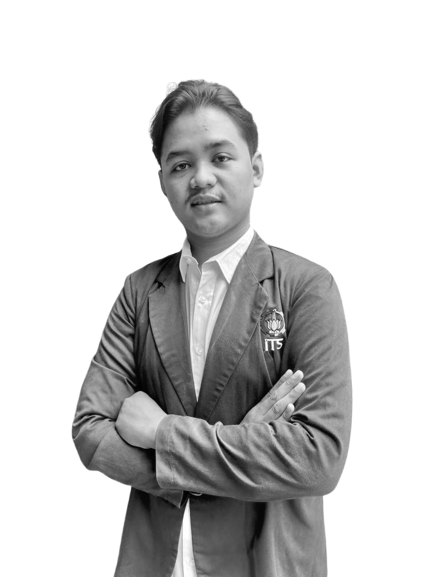
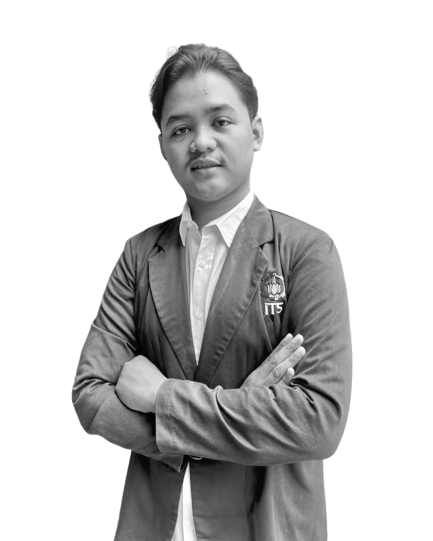
update foto kemenkoan

Changed region(s): [[0.1501, 0.0591, 0.8106, 0.9464]]

diff --git a/app/views/template/aspirasikmits.php b/app/views/template/aspirasikmits.php
@@ -3,7 +3,8 @@
   
         <div class="container col-lg-5 col-sm-12 pt-5">
             <h2 class="fw-bold text-start">Sampaikan Aspirasimu!</h2>
-            <p class="text-justify">Ut eu, sit aliquam mi tellus ac. Porttitor nunc mauris id elementum molestie blandit faucibus ac. Facilisis tortor, tristique senectus volutpat fermentum sem et pharetra enim. Amet lorem porta viverra odio malesuada fermentum consequat. Ornare hendrerit quisque arcu, venenatis magnis sed congue. Tempor tincidunt tortor id cursus sagittis laoreet orci dolor. Tempor pharetra lorem vivamus id faucibus quam. Morbi pellentesque at libero, augue sed netus sit. Vitae pretium mi bibendum aenean orci, pretium tellus elementum. Nec mattis neque adipiscing vel turpis euismod senectus
+            <p class="text-justify">Perjuangan aspirasi mahasiswa bukan sekedar proses penderitaan demi sebuah tujuan, apalagi menuai pujian. Akan tetapi, adalah suatu proses untuk memantaskan diri demi meraih tujuan mulia.
+            <br>"we not talk about a change, but we can make a change"
             </p>
            
         </div>
